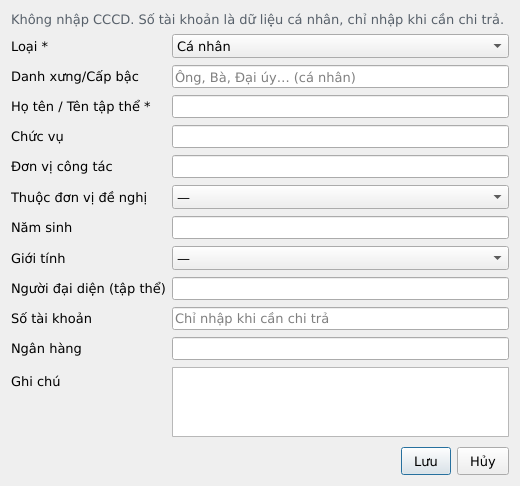
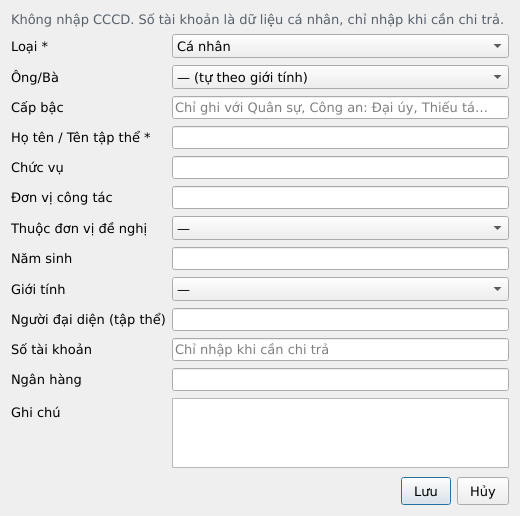
Tách Ông/Bà và Cấp bậc thành hai trường
- Ông/Bà: chọn từ danh sách, tự suy theo giới tính
- Cấp bậc: chỉ ghi với lực lượng vũ trang; khi in ưu tiên cấp bậc
- Tập thể không có hai trường này
- Mẫu Excel: tách 2 cột, báo lỗi khi ghi cấp bậc vào cột Ông/Bà

Claude-Session: https://claude.ai/code/session_01FQ35GfD6LSxrzUF7DeH3tv

diff --git a/qlkt/ui/main_window.py b/qlkt/ui/main_window.py
@@ -16,7 +16,7 @@ from PySide6.QtWidgets import (
 )
 
 from qlkt.services import excel_mau
-from qlkt.services.nghiep_vu import CHUYEN_TRANG_THAI, LoiNghiepVu, NghiepVu
+from qlkt.services.nghiep_vu import CHUYEN_TRANG_THAI, LoiNghiepVu, NghiepVu, ten_hien_thi
 from qlkt.ui.hop_thoai import HopThoaiChonNhieu, HopThoaiNhap, Truong
 
 TRANG_THAI = {
@@ -404,12 +404,12 @@ class TrangHoSo(Trang):
                f"dự {r['bb_so_du'] or '?'}/{r['bb_tong_so'] or '?'}, nhất trí {r['bb_ty_le'] or '?'}"
                if r["bb_ngay"] else "<span style='color:#c2410c'>Chưa có biên bản họp xét</span>")
             + tra_lai + qd)
-        ds = self.c.execute("SELECT hd.*, dt.loai, dt.ten, dt.danh_xung, dt.chuc_vu, dt.don_vi_cong_tac "
+        ds = self.c.execute("SELECT hd.*, dt.loai, dt.ten, dt.danh_xung, dt.cap_bac, dt.chuc_vu, dt.don_vi_cong_tac "
                             "FROM ho_so_doi_tuong hd JOIN doi_tuong dt ON dt.id=hd.doi_tuong_id "
                             "WHERE hd.ho_so_id=? ORDER BY dt.loai DESC, hd.thu_tu, hd.id", (hs_id,)).fetchall()
         kq = {"de_nghi": "Đề nghị", "duoc_khen": "Được khen", "khong_duoc": "Không được khen"}
         do_du_lieu(self.ds_dt, [[i + 1, "Tập thể" if d["loai"] == "tap_the" else "Cá nhân",
-                                 " ".join(filter(None, [d["danh_xung"], d["ten"]])),
+                                 ten_hien_thi(d),
                                  ", ".join(filter(None, [d["chuc_vu"], d["don_vi_cong_tac"]])),
                                  d["tom_tat_thanh_tich"], kq[d["ket_qua"]], tien(d["so_tien"])]
                                 for i, d in enumerate(ds)], [d["id"] for d in ds])
@@ -615,7 +615,9 @@ class TrangDoiTuong(Trang):
     def truong(c: sqlite3.Connection) -> list[Truong]:
         return [
             Truong("loai", "Loại", "chon", bat_buoc=True, lua_chon=LOAI_DT),
-            Truong("danh_xung", "Danh xưng/Cấp bậc", goi_y="Ông, Bà, Đại úy… (cá nhân)"),
+            Truong("danh_xung", "Ông/Bà", "chon", lua_chon=[("— (tự theo giới tính)", None), ("Ông", "Ông"),
+                                                            ("Bà", "Bà")]),
+            Truong("cap_bac", "Cấp bậc", goi_y="Chỉ ghi với Quân sự, Công an: Đại úy, Thiếu tá…"),
             Truong("ten", "Họ tên / Tên tập thể", bat_buoc=True),
             Truong("chuc_vu", "Chức vụ"),
             Truong("don_vi_cong_tac", "Đơn vị công tác"),
@@ -664,7 +666,7 @@ class TrangDoiTuong(Trang):
             "FROM doi_tuong dt WHERE da_xoa=0 AND (ten LIKE ? OR COALESCE(don_vi_cong_tac,'') LIKE ?)"
             + (" AND loai=?" if loai else "") + " ORDER BY loai, ten",
             (q, q, loai) if loai else (q, q)).fetchall()
-        do_du_lieu(self.ds, [["Tập thể" if r["loai"] == "tap_the" else "Cá nhân", r["ten"], r["chuc_vu"],
+        do_du_lieu(self.ds, [["Tập thể" if r["loai"] == "tap_the" else "Cá nhân", ten_hien_thi(r), r["chuc_vu"],
                               r["don_vi_cong_tac"], r["n"]] for r in rs], [r["id"] for r in rs])
         do_du_lieu(self.ls, [])
 

diff --git a/qlkt/services/nghiep_vu.py b/qlkt/services/nghiep_vu.py
@@ -24,7 +24,7 @@ CHUYEN_TRANG_THAI = {
     "khong_duyet": set(),
 }
 
-COT_DOI_TUONG = ("loai", "ten", "danh_xung", "nam_sinh", "gioi_tinh", "chuc_vu", "don_vi_cong_tac",
+COT_DOI_TUONG = ("loai", "ten", "danh_xung", "cap_bac", "nam_sinh", "gioi_tinh", "chuc_vu", "don_vi_cong_tac",
                  "don_vi_id", "nguoi_dai_dien", "so_tai_khoan", "ngan_hang", "ghi_chu")
 COT_PHONG_TRAO = ("ten", "nam", "ngay_phat_dong", "han_nop_ho_so", "mo_ta")
 COT_HO_SO = ("phong_trao_id", "don_vi_id", "hinh_thuc_id", "trich_yeu", "ttr_dv_so", "ttr_dv_ngay",
@@ -37,6 +37,28 @@ NHAY_CAM = {"so_tai_khoan"}
 def chuan_hoa(s: str | None) -> str:
     """Chuẩn hóa để so trùng: NFC, bỏ khoảng trắng thừa, chữ thường."""
     return " ".join(unicodedata.normalize("NFC", s or "").split()).lower()
+
+
+def ten_hien_thi(dt) -> str:
+    """Tên in trên danh sách, QĐ: cá nhân có cấp bậc (LLVT) thì in cấp bậc, không thì Ông/Bà."""
+    if dt["loai"] == "tap_the":
+        return dt["ten"]
+    tien_to = dt["cap_bac"] or dt["danh_xung"]
+    return f"{tien_to} {dt['ten']}" if tien_to else dt["ten"]
+
+
+def chuan_hoa_doi_tuong(d: dict) -> dict:
+    """Tập thể không có Ông/Bà, cấp bậc; cá nhân chưa chọn Ông/Bà thì suy từ giới tính."""
+    d = dict(d)
+    if d.get("loai") == "tap_the":
+        d["danh_xung"] = d["cap_bac"] = None
+    elif not d.get("danh_xung") and d.get("gioi_tinh") in ("Nam", "Nữ"):
+        d["danh_xung"] = "Ông" if d["gioi_tinh"] == "Nam" else "Bà"
+    if d.get("danh_xung") not in (None, "Ông", "Bà"):
+        raise LoiNghiepVu("Ô \"Ông/Bà\" chỉ nhận Ông hoặc Bà. Cấp bậc (Đại úy…) ghi ở ô Cấp bậc.")
+    if d.get("cap_bac"):
+        d["cap_bac"] = " ".join(str(d["cap_bac"]).split())
+    return d
 
 
 class NghiepVu:
@@ -96,7 +118,7 @@ class NghiepVu:
             raise LoiNghiepVu("Loại phải là Cá nhân hoặc Tập thể.")
         if self.tim_doi_tuong_trung(d["loai"], d["ten"], d.get("don_vi_cong_tac")):
             raise LoiNghiepVu(f"Đã có \"{d['ten']}\" cùng đơn vị công tác trong danh sách.")
-        d = {**d, "ten": " ".join(d["ten"].split())}
+        d = chuan_hoa_doi_tuong({**d, "ten": " ".join(d["ten"].split())})
         id_ = self._them("doi_tuong", COT_DOI_TUONG, d)
         self.c.commit()
         return id_
@@ -108,6 +130,8 @@ class NghiepVu:
         loai, ten = d.get("loai", cu["loai"]), d.get("ten", cu["ten"])
         if self.tim_doi_tuong_trung(loai, ten, d.get("don_vi_cong_tac", cu["don_vi_cong_tac"]), id_):
             raise LoiNghiepVu(f"Đã có \"{ten}\" cùng đơn vị công tác trong danh sách.")
+        d = chuan_hoa_doi_tuong({**dict(cu), **d})
+        d = {k: v for k, v in d.items() if k in COT_DOI_TUONG}
         self._sua("doi_tuong", COT_DOI_TUONG, id_, d)
         self.c.commit()
 

diff --git a/qlkt/services/excel_mau.py b/qlkt/services/excel_mau.py
@@ -32,7 +32,8 @@ O_THONG_TIN = [
     ("bb_ty_le", "Tỷ lệ biểu quyết nhất trí", "VD: 100%"),
 ]
 COT_DS = [
-    ("stt", "STT", 6), ("loai", "Loại (Tập thể/Cá nhân)", 14), ("danh_xung", "Danh xưng/Cấp bậc", 14),
+    ("stt", "STT", 6), ("loai", "Loại (Tập thể/Cá nhân)", 14), ("danh_xung", "Ông/Bà", 8),
+    ("cap_bac", "Cấp bậc (chỉ Quân sự, Công an)", 16),
     ("ten", "Họ và tên / Tên tập thể", 30), ("chuc_vu", "Chức vụ", 22),
     ("don_vi_cong_tac", "Đơn vị công tác", 28), ("thanh_tich", "Tóm tắt thành tích", 45),
     ("nguoi_dai_dien", "Người đại diện (tập thể)", 22), ("ghi_chu", "Ghi chú", 18),
@@ -89,6 +90,9 @@ def xuat_mau(duong_dan: str | Path, phong_trao: dict, ten_don_vi: str = "") -> P
     dv = DataValidation(type="list", formula1='"Tập thể,Cá nhân"', allow_blank=True)
     dv.add(f"B{DONG_TIEU_DE_DS + 1}:B{DONG_TIEU_DE_DS + 500}")
     ds.add_data_validation(dv)
+    dv2 = DataValidation(type="list", formula1='"Ông,Bà"', allow_blank=True)
+    dv2.add(f"C{DONG_TIEU_DE_DS + 1}:C{DONG_TIEU_DE_DS + 500}")
+    ds.add_data_validation(dv2)
 
     meta = wb.create_sheet(SHEET_META)
     meta["A1"], meta["B1"] = "phien_ban_mau", PHIEN_BAN_MAU
@@ -159,6 +163,13 @@ def doc_mau(duong_dan: str | Path) -> KetQuaDoc:
         if not d["ten"]:
             kq.loi.append(f"Dòng {r}: chưa có họ tên / tên tập thể.")
             continue
+        if d["danh_xung"]:
+            dx = {"ông": "Ông", "bà": "Bà"}.get(chuan_hoa(d["danh_xung"]))
+            if dx is None:
+                kq.loi.append(f"Dòng {r}: cột Ông/Bà chỉ ghi \"Ông\" hoặc \"Bà\" "
+                              f"(cấp bậc như \"{d['danh_xung']}\" ghi ở cột Cấp bậc).")
+                continue
+            d["danh_xung"] = dx
         d["dong_excel"] = r
         kq.dong.append(d)
     da_gap: dict[tuple, int] = {}
@@ -202,7 +213,7 @@ def nhap_ho_so(nv: NghiepVu, kq: KetQuaDoc, hinh_thuc_id: int, trich_yeu: str,
             if d["chuc_vu"] and d["chuc_vu"] != cu["chuc_vu"]:
                 nv.sua_doi_tuong(dt_id, {"chuc_vu": d["chuc_vu"]})
         else:
-            dt_id = nv.them_doi_tuong({k: d[k] for k in ("loai", "ten", "danh_xung", "chuc_vu",
+            dt_id = nv.them_doi_tuong({k: d[k] for k in ("loai", "ten", "danh_xung", "cap_bac", "chuc_vu",
                                                           "don_vi_cong_tac", "nguoi_dai_dien", "ghi_chu")}
                                       | {"don_vi_id": dv_id})
             ket_qua.them_moi += 1

diff --git a/tests/test_excel_mau.py b/tests/test_excel_mau.py
@@ -14,6 +14,8 @@ def _dien(path, dong, thong_tin=None):
     for i, k in enumerate(keys, start=4):
         tt.cell(i, 2, vals.get(k))
     ds = wb["Danh sách"]
+    # r: STT, Loại, Ông/Bà, Tên, Chức vụ, Đơn vị, Thành tích, Đại diện, Ghi chú[, Cấp bậc]
+    dong = [r[:3] + [r[9] if len(r) > 9 else None] + r[3:9] for r in dong]
     for i, r in enumerate(dong, start=DONG_TIEU_DE_DS + 1):
         for j, v in enumerate(r, start=1):
             ds.cell(i, j, v)
@@ -25,18 +27,22 @@ def test_xuat_dien_nhap(nv, tmp_path):
     _dien(p, [
         [1, "Tập thể", None, "Dân quân bản Mẫu", None, "Bản Mẫu", "Xuất sắc", "Người X", None],
         [2, "Cá nhân", "Ông", "Nguyễn Văn A", "Bản đội trưởng", "Bản Mẫu", "Xuất sắc", None, None],
+        [3, "Cá nhân", "Ông", "Trần Văn C", "Phó CHT", "Ban CHQS", "Xuất sắc", None, None, "Đại úy"],
     ])
     kq = doc_mau(p)
     assert kq.loi == []
     assert kq.phong_trao_id == 1 and kq.thong_tin["ttr_dv_ngay"] == "2026-11-25"
     n = nhap_ho_so(nv, kq, 1, "Khen QP 2026")
-    assert (n.them_moi, n.da_co) == (2, 0)
+    assert (n.them_moi, n.da_co) == (3, 0)
     tien = sorted(r[0] for r in nv.c.execute("SELECT so_tien FROM ho_so_doi_tuong"))
-    assert tien == [759000, 1518000]
+    assert tien == [759000, 759000, 1518000]
+    from qlkt.services.nghiep_vu import ten_hien_thi
+    ten = [ten_hien_thi(r) for r in nv.c.execute("SELECT * FROM doi_tuong ORDER BY id")]
+    assert ten == ["Dân quân bản Mẫu", "Ông Nguyễn Văn A", "Đại úy Trần Văn C"]
     # Nhập lần 2 cùng người: nhận ra đối tượng đã có
     kq2 = doc_mau(p)
     n2 = nhap_ho_so(nv, kq2, 1, "Khen QP 2026 đợt 2")
-    assert (n2.them_moi, n2.da_co) == (0, 2)
+    assert (n2.them_moi, n2.da_co) == (0, 3)
 
 
 def test_bao_loi(nv, tmp_path):
@@ -46,9 +52,11 @@ def test_bao_loi(nv, tmp_path):
         [2, "Cá nhân", None, None, None, None, None, None, None],
         [3, "Cá nhân", None, "B", None, "Đv", None, None, None],
         [4, "cá nhân", None, " b ", None, "đv", None, None, None],
+        [5, "Cá nhân", "Đại úy", "D", None, None, None, None, None],
     ], {"ttr_dv_ngay": "32/13/2026"})
     loi = " | ".join(doc_mau(p).loi)
     assert "Dòng 4" in loi and "Dòng 5" in loi and "trùng với dòng 6" in loi and "Ngày Tờ trình" in loi
+    assert "Dòng 8: cột Ông/Bà" in loi
 
 
 def test_file_khong_dung_mau(tmp_path):

diff --git a/scripts/tao_du_lieu_mau.py b/scripts/tao_du_lieu_mau.py
@@ -42,15 +42,16 @@ def tao(duong_dan: Path) -> None:
               "('Tổng kết năm học 2025-2026', 2026, '2026-12-10')")
 
     ca_nhan = [
-        ("Ông", "Nguyễn Văn A", "Phó Chỉ huy trưởng", "Ban Chỉ huy Quân sự xã", 4),
+        ("Đại úy", "Nguyễn Văn A", "Phó Chỉ huy trưởng", "Ban Chỉ huy Quân sự xã", 4),
         ("Ông", "Trần Văn B", "Bản đội trưởng", "Bản Mẫu 1", 4),
         ("Bà", "Lê Thị C", "Cán bộ", "Công an xã", 5),
         ("Ông", "Phạm Văn D", "Chuyên viên", "Phòng Kinh tế", 2),
         ("Bà", "Hoàng Thị E", "Hiệu trưởng", "Trường TH Mẫu A", 6),
     ]
     for dx, ten, cv, dv, dvid in ca_nhan:
-        c.execute("INSERT INTO doi_tuong(loai, danh_xung, ten, chuc_vu, don_vi_cong_tac, don_vi_id) "
-                  "VALUES ('ca_nhan', ?, ?, ?, ?, ?)", (dx, ten, cv, dv, dvid))
+        cap_bac = None if dx in ("Ông", "Bà") else dx
+        c.execute("INSERT INTO doi_tuong(loai, danh_xung, cap_bac, ten, chuc_vu, don_vi_cong_tac, don_vi_id) "
+                  "VALUES ('ca_nhan', ?, ?, ?, ?, ?, ?)", ("Ông" if cap_bac else dx, cap_bac, ten, cv, dv, dvid))
     tap_the = [("Ban Chỉ huy Quân sự xã", 4, "Người đại diện A"),
                ("Tập thể Dân quân Bản Mẫu 1", 7, "Người đại diện B"),
                ("Công an xã", 5, "Người đại diện C")]

diff --git a/tests/test_nghiep_vu.py b/tests/test_nghiep_vu.py
@@ -75,3 +75,19 @@ def test_nhat_ky_an_so_tai_khoan(nv):
     nv.them_doi_tuong({"loai": "ca_nhan", "ten": "A", "so_tai_khoan": "123456789"})
     nd = " ".join(r[0] or "" for r in nv.c.execute("SELECT noi_dung FROM nhat_ky"))
     assert "123456789" not in nd and "so_tai_khoan=***" in nd
+
+
+def test_ong_ba_va_cap_bac(nv):
+    from qlkt.services.nghiep_vu import ten_hien_thi
+    a = nv.them_doi_tuong({"loai": "ca_nhan", "ten": "Lò Thị A", "gioi_tinh": "Nữ"})
+    b = nv.them_doi_tuong({"loai": "ca_nhan", "ten": "Hà Văn B", "danh_xung": "Ông", "cap_bac": " Đại  úy "})
+    c = nv.them_doi_tuong({"loai": "tap_the", "ten": "Công an xã", "danh_xung": "Ông", "cap_bac": "Đại úy"})
+    rows = {r["id"]: r for r in nv.c.execute("SELECT * FROM doi_tuong")}
+    assert ten_hien_thi(rows[a]) == "Bà Lò Thị A"
+    assert ten_hien_thi(rows[b]) == "Đại úy Hà Văn B"
+    assert ten_hien_thi(rows[c]) == "Công an xã" and rows[c]["cap_bac"] is None
+    with pytest.raises(LoiNghiepVu):
+        nv.them_doi_tuong({"loai": "ca_nhan", "ten": "X", "danh_xung": "Đại úy"})
+    nv.sua_doi_tuong(b, {"cap_bac": None})
+    r = nv.c.execute("SELECT * FROM doi_tuong WHERE id=?", (b,)).fetchone()
+    assert ten_hien_thi(r) == "Ông Hà Văn B"
